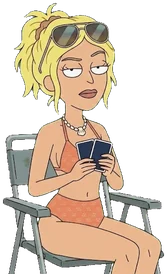
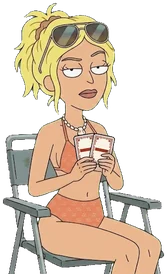
La Güera con las cartas nuevas: los seis rivales ya llevan el reverso de la baraja
- La Güera aprobada (v2, su segunda y última llamada: el hueco entre las manos ya es piel,
  sin la mancha gris de la silla). WebP y registro con optimizar-arte.py; su tamaño no cambia
  y sus franjas quedan en personajes.json.
- Capturas del juego con los seis: la etiqueta "Poker for the Players" sale en las franjas
  de todos, en asientos con y sin espejo, y apagada con el personaje
  (arte/revision/cartas/seis-*).
- Los prompts de apuesta, retirarse y gana ya piden el reverso nuevo (blanco con el marco
  rojo ladrillo y la franja vacía) en vez del azul marino.
- CLAUDE.md: los seis listos; pendiente nuevo: la etiqueta en los cuadros que todavía no
  tienen sus franjas (espia, apuesta, retirarse, gana).

Changed region(s): [[0.2096, 0.4672, 0.6886, 0.7007]]

diff --git a/CLAUDE.md b/CLAUDE.md
@@ -270,7 +270,7 @@ Los de los lados pueden tapar un poco los hombros de los del fondo, nunca la car
   - **Figuras** (rey, reina y jota): personajes originales en caricatura para adultos, al estilo de las figuras de las barajas clásicas: pose rígida de frente, un objeto en diagonal y la otra mano al pecho, ropa cubierta de patrones, párpados pesados y cara de "ya me quiero ir". Gemini dibujó la mitad de arriba (`scripts/generar-baraja.py`); el código pone la de abajo (la misma girada 180°), el marco de doble línea con las volutas del reverso, la franja del centro, el palo junto a la cabeza y los índices. La túnica va del color de su palo: corazones rojo ladrillo, diamantes marino, tréboles oliva y picas gris pizarra.
   - **Reverso**: el marco de volutas rojo ladrillo sobre blanco (de Gemini, con el centro limpiado por código) y, al centro, la etiqueta del logo: un rectángulo rojo con "Poker for the Players" en letras blancas, sin contorno, dibujada por código. La misma función la pone en los ases: el texto, los colores y el tamaño están en `ETIQUETA` de `cards.js`, para cambiar los dos a la vez cuando se rediseñe el logo.
   - El arte se precarga con el resto; si alguna imagen no carga, esa carta se dibuja solo con código (el reverso con un marco rojo sencillo, las figuras con su marco, su letra y su palo) y el juego sigue. En la vista 2D las cartas son HTML con los mismos palos, y boca abajo llevan un reverso en CSS (papel, marco rojo y la franja de la etiqueta).
-  - Las cartas que tienen los rivales en la mano llevan el mismo reverso y miden lo mismo en la mesa para todos (0.07 de ancho; las de los asientos del fondo se ven más chicas por la distancia). `scripts/generar-personaje.py cartas` las dibuja por código sobre la espera (el reverso aprobado y la franja de la etiqueta vacía, al ancho que les toca con su escala) y Gemini solo redibuja las manos alrededor, con los dedos encima de las cartas; las letras de la franja las pone el juego con la misma `etiqueta()` (`rivals.js`, con las `franjas` que `aprobar-cartas` anota en `personajes.json`), derechas aunque el personaje vaya en espejo. Así un logo nuevo se ve en todas partes sin rehacer imágenes. Ya las tienen todos menos La Güera (la turista), que sigue con el reverso azul: ver "Pendientes".
+  - Las cartas que tienen los rivales en la mano llevan el mismo reverso y miden lo mismo en la mesa para todos (0.07 de ancho; las de los asientos del fondo se ven más chicas por la distancia). `scripts/generar-personaje.py cartas` las dibuja por código sobre la espera (el reverso aprobado y la franja de la etiqueta vacía, al ancho que les toca con su escala) y Gemini solo redibuja las manos alrededor, con los dedos encima de las cartas; las letras de la franja las pone el juego con la misma `etiqueta()` (`rivals.js`, con las `franjas` que `aprobar-cartas` anota en `personajes.json`), derechas aunque el personaje vaya en espejo. Así un logo nuevo se ve en todas partes sin rehacer imágenes. Ya las tienen los seis.
 - **Rivales**: ilustraciones recortadas de cuerpo completo, sentados en su propia silla y con las cartas al pecho (ver "Archivos de arte" y `docs/ESPEC-PERSONAJES.md`); la mesa los recorta en la cintura, así que las manos y las cartas se siguen viendo. Mismo estilo para todos: formas simples, ojos grandes con párpados caídos, expresiones secas, aburridas o sospechosas, mezcla de criaturas alienígenas y equipo improvisado. Cada uno con una silueta distinta y reconocible. Los humanos en la mesa usan uno de estos personajes como avatar, con su apodo encima.
 - **Animación de los rivales** (cambio de pose, como en una serie animada):
   - **espera** por omisión, con **parpadeo** cada 3 a 6 s al azar (150 ms; solo en espera);
@@ -402,7 +402,7 @@ npm start       # producción: sirve dist/ (corre antes npm run build)
 
 ## Pendientes
 
-- **Cartas en la mano de La Güera (la turista)**: los otros cinco ya tienen las nuevas. Su primera respuesta dejó una mancha gris entre las manos (el relleno tomaba el gris de la silla); su dibujo ya se rellena con su piel (`relleno = "piel"` en su ficha) y le queda una llamada: `generar-personaje.py cartas turista --llamadas 1`, con el "genera" del dueño. Al terminar, cambiar en `prompts-personaje.toml` el "navy blue" de apuesta, retirarse y gana.
+- **La etiqueta en los cuadros nuevos de los rivales**: el juego escribe la etiqueta solo en las franjas que conoce, y hoy solo las tienen espera y parpadeo (`franjas` en `personajes.json`, de `aprobar-cartas`). Un cuadro nuevo sin las suyas (espia, apuesta, retirarse, gana) se vería con la franja roja vacía: al aprobar uno que solo cambia la cara (espia), copiarle las de espera; en los que mueven las cartas, medirlas en su imagen.
 
 - **Celular con la mesa nueva**: en vertical sigue la mesa de código, pero con la orilla nueva (más honda que ancha, calcada de la ilustración), así que su cámara se bajó a 50° (`CAMERAS.portrait`) para que los rivales no se vieran diminutos. Falta decidir si el celular usa una segunda ilustración (vista más desde arriba) o la misma adaptada, y revisar sus asientos y etiquetas.
 - **Memoria en iPhone con todos los cuadros**: el máximo de frente subió a 1000 px de alto (la mitad de abajo queda bajo la mesa). Cuando cada personaje tenga todos sus cuadros de frente y de lado, revisar cuánta memoria usa la mesa en un iPhone: hoy se precargan y decodifican todos los cuadros de todos los personajes en uso (6 personajes × hasta 6 cuadros × 2 ángulos, más los reducidos al tamaño en que se ven). Si pesa, cargar solo los personajes que están en la mesa o bajar el máximo.
